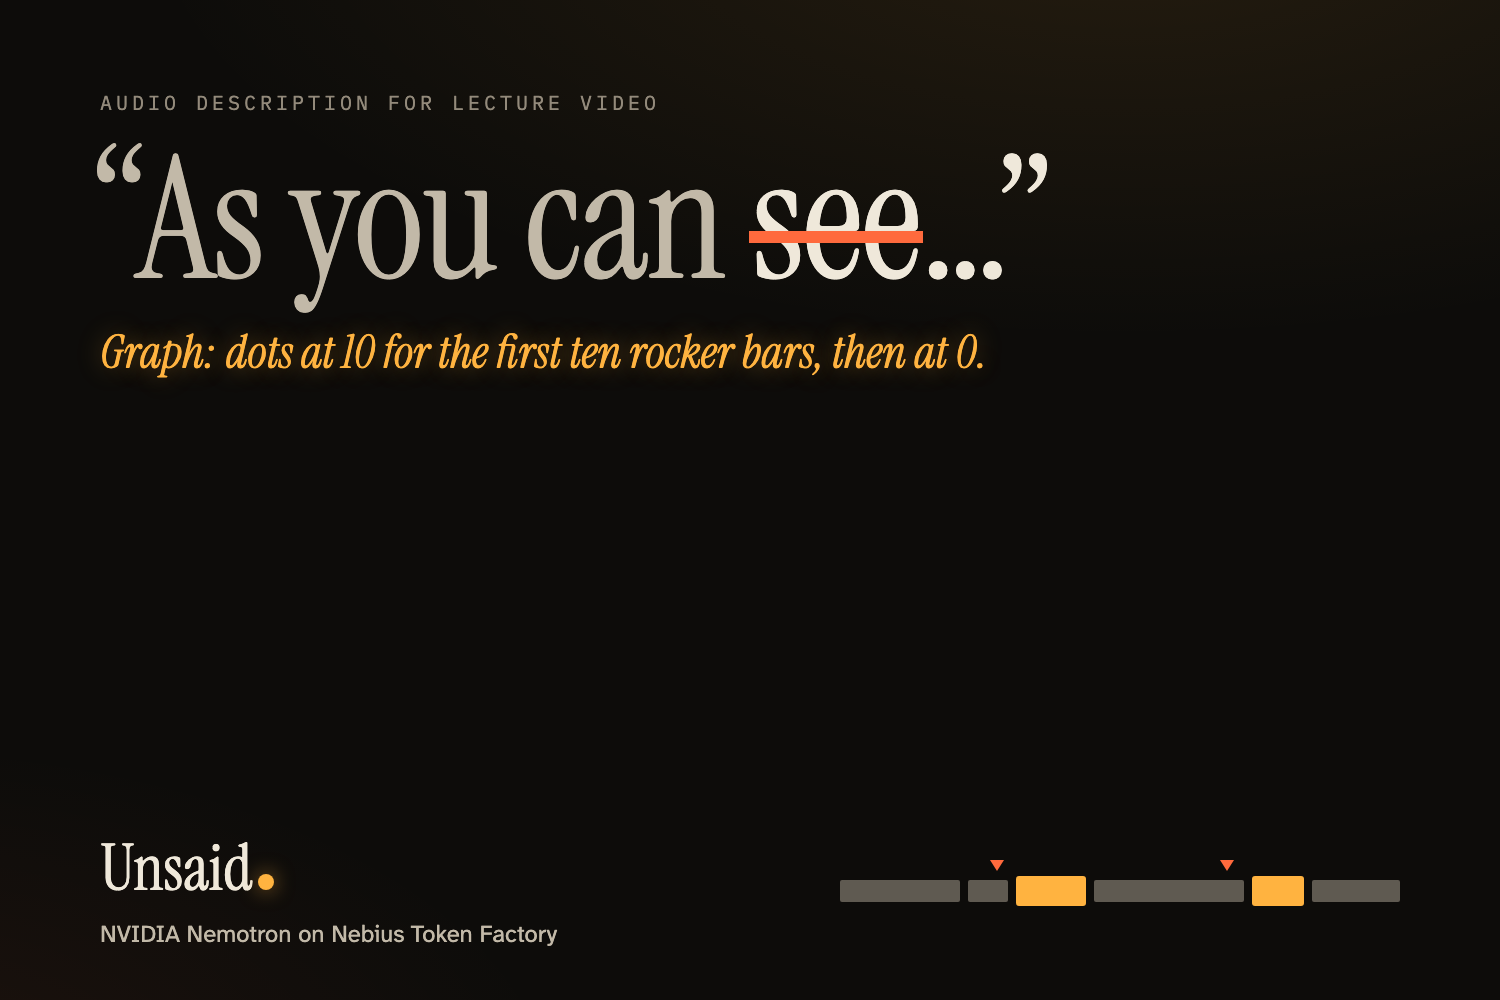
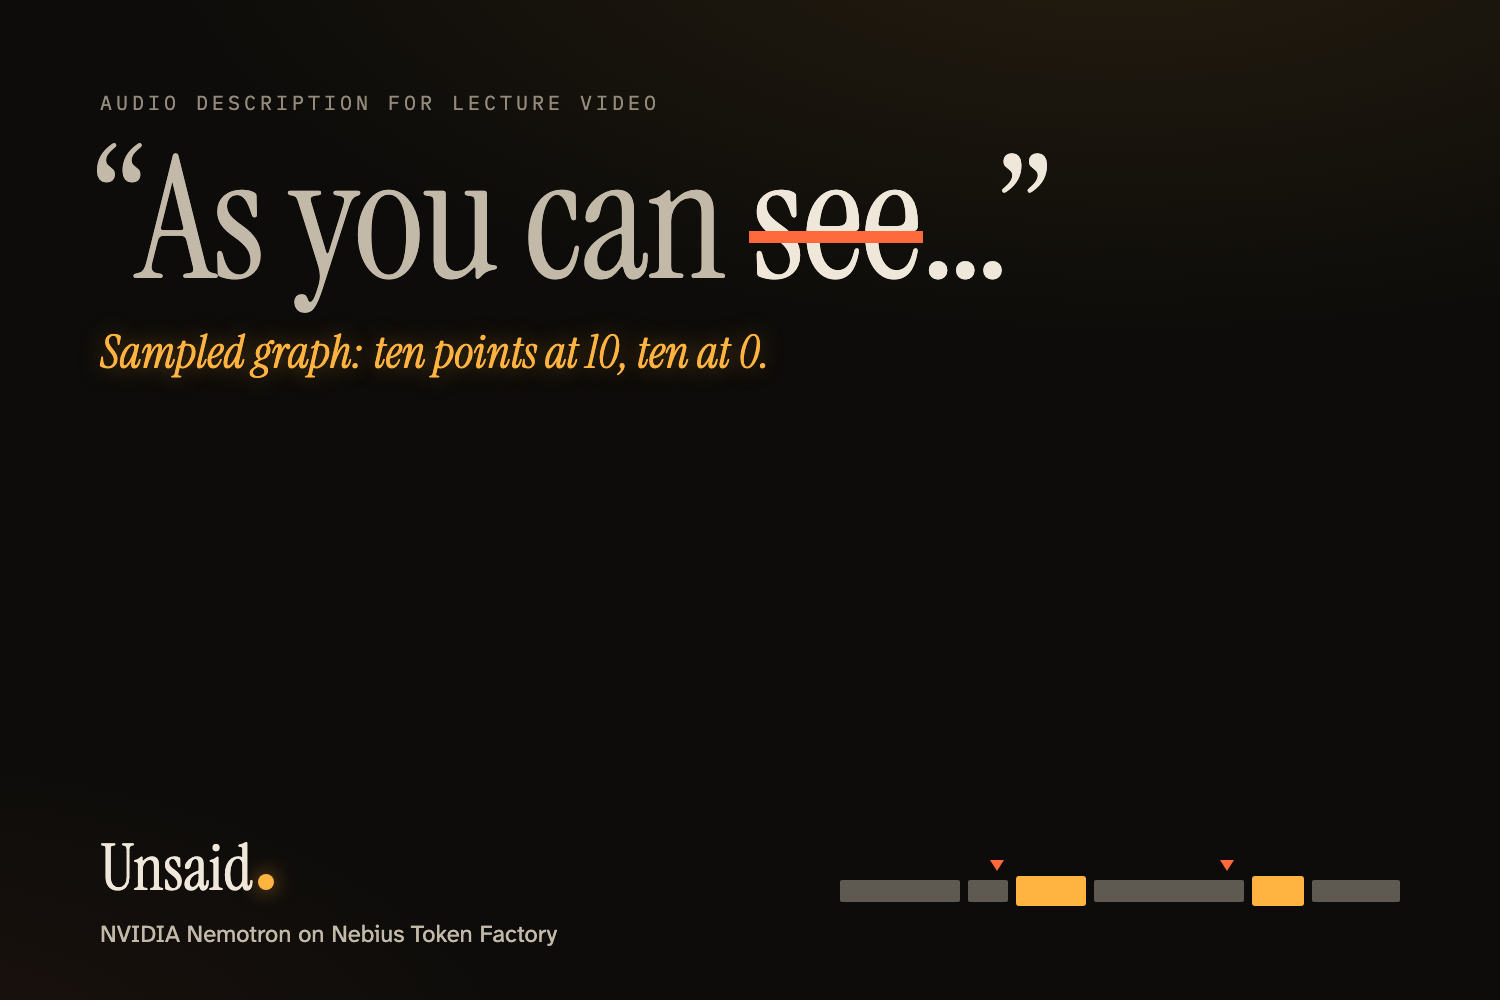
fix(video): the thumbnail quotes the example's real featured description

Changed region(s): [[0.0613, 0.341, 0.6747, 0.372]]

diff --git a/video/cards/thumbnail.html b/video/cards/thumbnail.html
@@ -19,7 +19,7 @@ svg{position:absolute;right:100px;bottom:72px}
 </style></head><body><div class="wrap">
 <div class="eyebrow">Audio description for lecture video</div>
 <h1><span class="q">“As you can</span> <span class="s">see</span>…”</h1>
-<div class="desc">Graph: dots at 10 for the first ten rocker bars, then at 0.</div>
+<div class="desc">Sampled graph: ten points at 10, ten at 0.</div>
 </div>
 <div class="brand">Unsaid<span class="dot"></span></div>
 <div class="tag">NVIDIA Nemotron on Nebius Token Factory</div>
